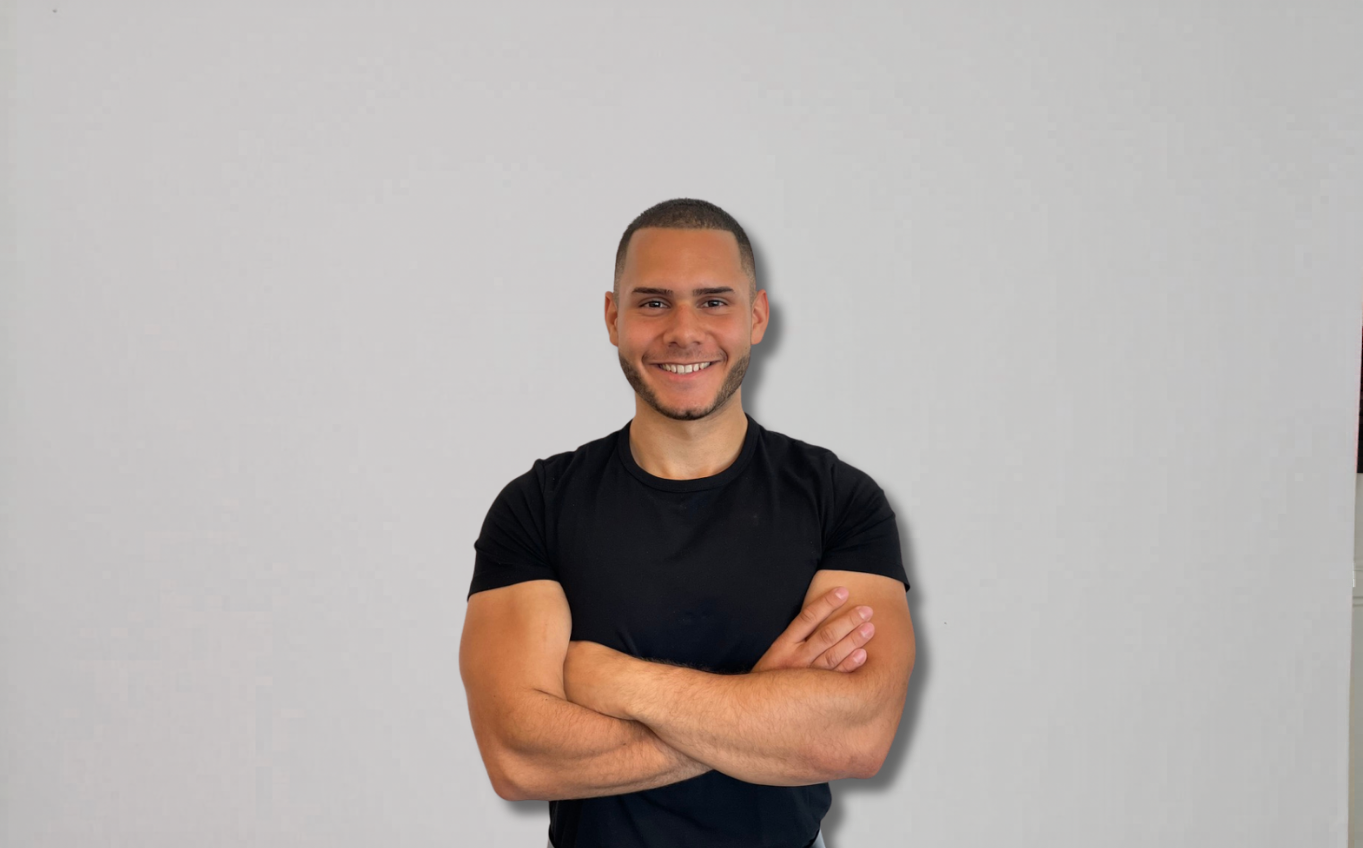
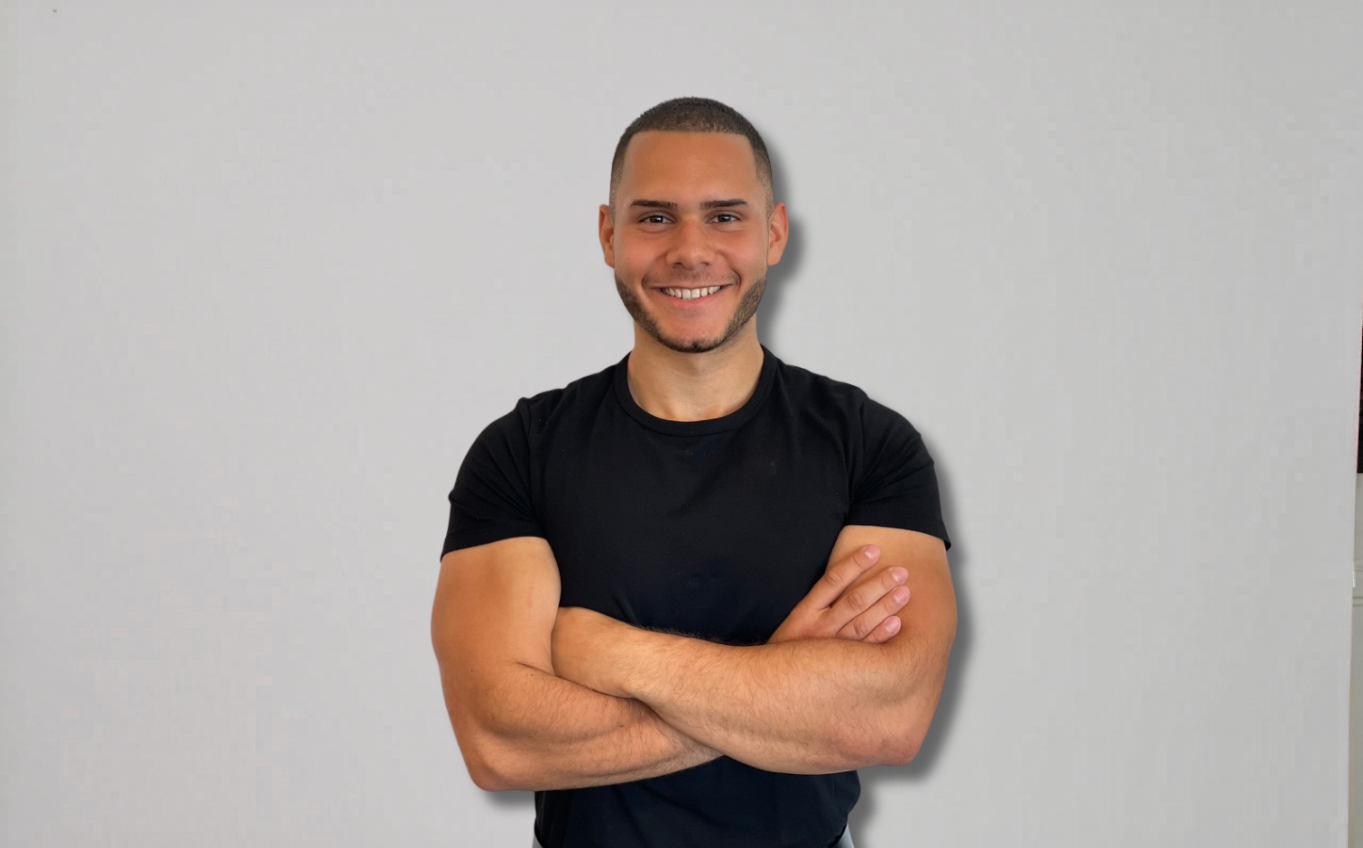
Update Nevio photo + zoom CSS so both team members appear same size

Changed region(s): [[0.3081, 0.092, 0.7395, 1.0]]

diff --git a/index.html b/index.html
@@ -193,6 +193,8 @@
     .team-photo { overflow: hidden; margin-bottom: 1.8rem; }
     .team-photo img { width: 100%; height: 500px; object-fit: cover; object-position: top center; display: block; transition: transform 0.6s ease; }
     .team-photo:hover img { transform: scale(1.02); }
+    .nevio-photo img { transform: scale(1.38); transform-origin: center 30%; }
+    .nevio-photo:hover img { transform: scale(1.40); }
     .team-name { font-family: var(--serif); font-size: 1.85rem; font-weight: 400; font-style: italic; color: var(--text); margin-bottom: 0.25rem; }
     .team-role { font-size: 0.58rem; letter-spacing: 0.22em; text-transform: uppercase; color: var(--gold); margin-bottom: 0.6rem; display: block; font-weight: 500; }
     .team-email { font-size: 0.75rem; color: var(--muted); margin-bottom: 1.4rem; display: block; text-decoration: none; transition: color 0.3s; }
@@ -460,7 +462,7 @@
   </div>
   <div class="team-grid">
     <div class="team-card reveal">
-      <div class="team-photo"><img src="nevio.jpg" alt="Nevio Mastrogiorgio" loading="lazy"></div>
+      <div class="team-photo nevio-photo"><img src="nevio.jpg" alt="Nevio Mastrogiorgio" loading="lazy"></div>
       <div class="team-name">Nevio, 20</div>
       <span class="team-role">Gründer &nbsp;&#183;&nbsp; Beratung &amp; Kundenkontakt</span>
       <a href="mailto:nevio.mastrogiorgio@amoriva-films.de" class="team-email">nevio.mastrogiorgio@amoriva-films.de</a>
